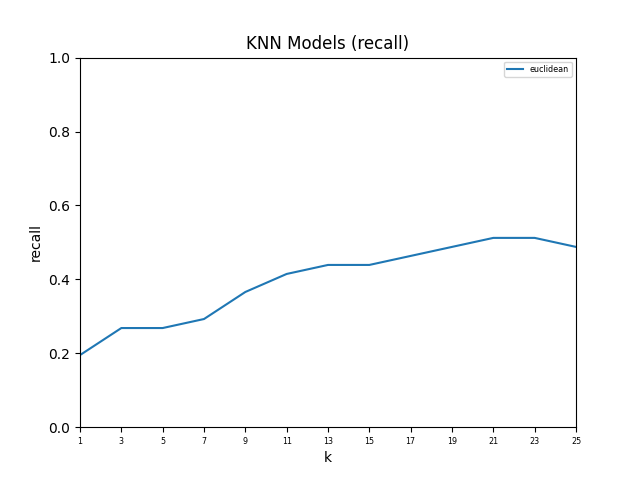
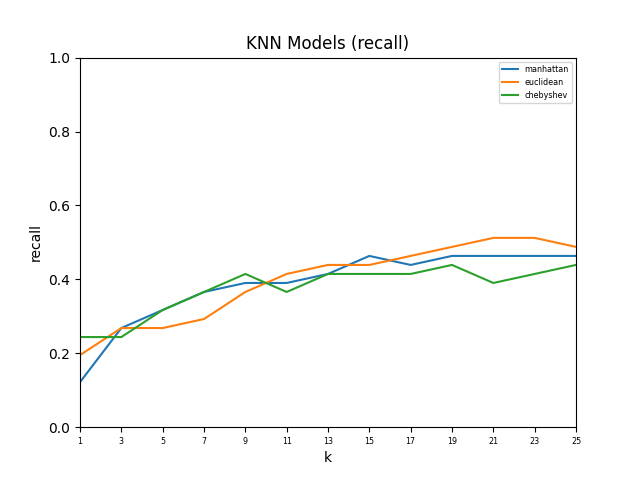
c

Changed region(s): [[0.125, 0.4688, 0.9062, 0.7812], [0.7812, 0.125, 0.9062, 0.2188]]

diff --git a/Projeto/Modeling/KNN financial/KNN_Financial.py b/Projeto/Modeling/KNN financial/KNN_Financial.py
@@ -264,7 +264,7 @@ def plot_multiline_chart(
 def knn_study(
         trnX: ndarray, trnY: array, tstX: ndarray, tstY: array, k_max: int=19, lag: int=2, metric='accuracy'
         ) -> tuple[KNeighborsClassifier | None, dict]:
-    dist: list[Literal['euclidean']] = ['euclidean']
+    dist: list[Literal['manhattan', 'euclidean', 'chebyshev']] = ['manhattan', 'euclidean', 'chebyshev']
 
     kvalues: list[int] = [i for i in range(1, k_max+1, lag)]
     best_model: KNeighborsClassifier | None = None
@@ -305,14 +305,14 @@ print(f'Labels={labels}')
 figure()
 best_model, params = knn_study(trnX, trnY, tstX, tstY, k_max=25, metric=eval_metric)
 savefig(f'Projeto/Modeling/KNN financial/{file_tag}_knn_{eval_metric}_study.png')
-show()
+
 
 prd_trn: array = best_model.predict(trnX)
 prd_tst: array = best_model.predict(tstX)
 figure()
 plot_evaluation_results(params, trnY, prd_trn, tstY, prd_tst, labels)
 savefig(f'Projeto/Modeling/KNN financial/{file_tag}_knn_{params["name"]}_best_{params["metric"]}_eval.png')
-show()
+
 
 
 distance: Literal["manhattan", "euclidean", "chebyshev"] = params["params"][1]
@@ -339,4 +339,3 @@ plot_multiline_chart(
     percentage=True,
 )
 savefig(f"Projeto/Modeling/KNN financial/{file_tag}_knn_overfitting.png")
-show()

diff --git a/Projeto/Modeling/Decision Tree Financial/DecisionTree_Financial.py b/Projeto/Modeling/Decision Tree Financial/DecisionTree_Financial.py
@@ -326,7 +326,7 @@ file_tag = "Financial"
 train_filename = "financial_train.csv"
 test_filename = "financial_test.csv"
 target = "CLASS"
-eval_metric = "recall"
+eval_metric = "accuracy"
 
 trnX, tstX, trnY, tstY, labels, vars = read_train_test_from_files(train_filename, test_filename, target)
 print(f'Train#={len(trnX)} Test#={len(tstX)}')

diff --git a/Projeto/Modeling/Gradient Boosting/gradient_boosting.py b/Projeto/Modeling/Gradient Boosting/gradient_boosting.py
@@ -320,7 +320,7 @@ file_tag = "financial"
 train_filename = "financial_train.csv"
 test_filename = "financial_test.csv"
 target = "CLASS"
-eval_metric = "precision"
+eval_metric = "accuracy"
 
 trnX, tstX, trnY, tstY, labels, vars = read_train_test_from_files(
     train_filename, test_filename, target

diff --git a/Projeto/Modeling/Random Forest/randomForest.py b/Projeto/Modeling/Random Forest/randomForest.py
@@ -409,7 +409,7 @@ plot_horizontal_bar_chart(
     ylabel="variables",
     percentage=True,
 )
-savefig(f"images/{file_tag}_rf_{eval_metric}_vars_ranking.png")
+savefig(f"Projeto/Modeling/Random Forest/{file_tag}_rf_{eval_metric}_vars_ranking.png")
 
 plot_multiline_chart(
     nr_estimators,
